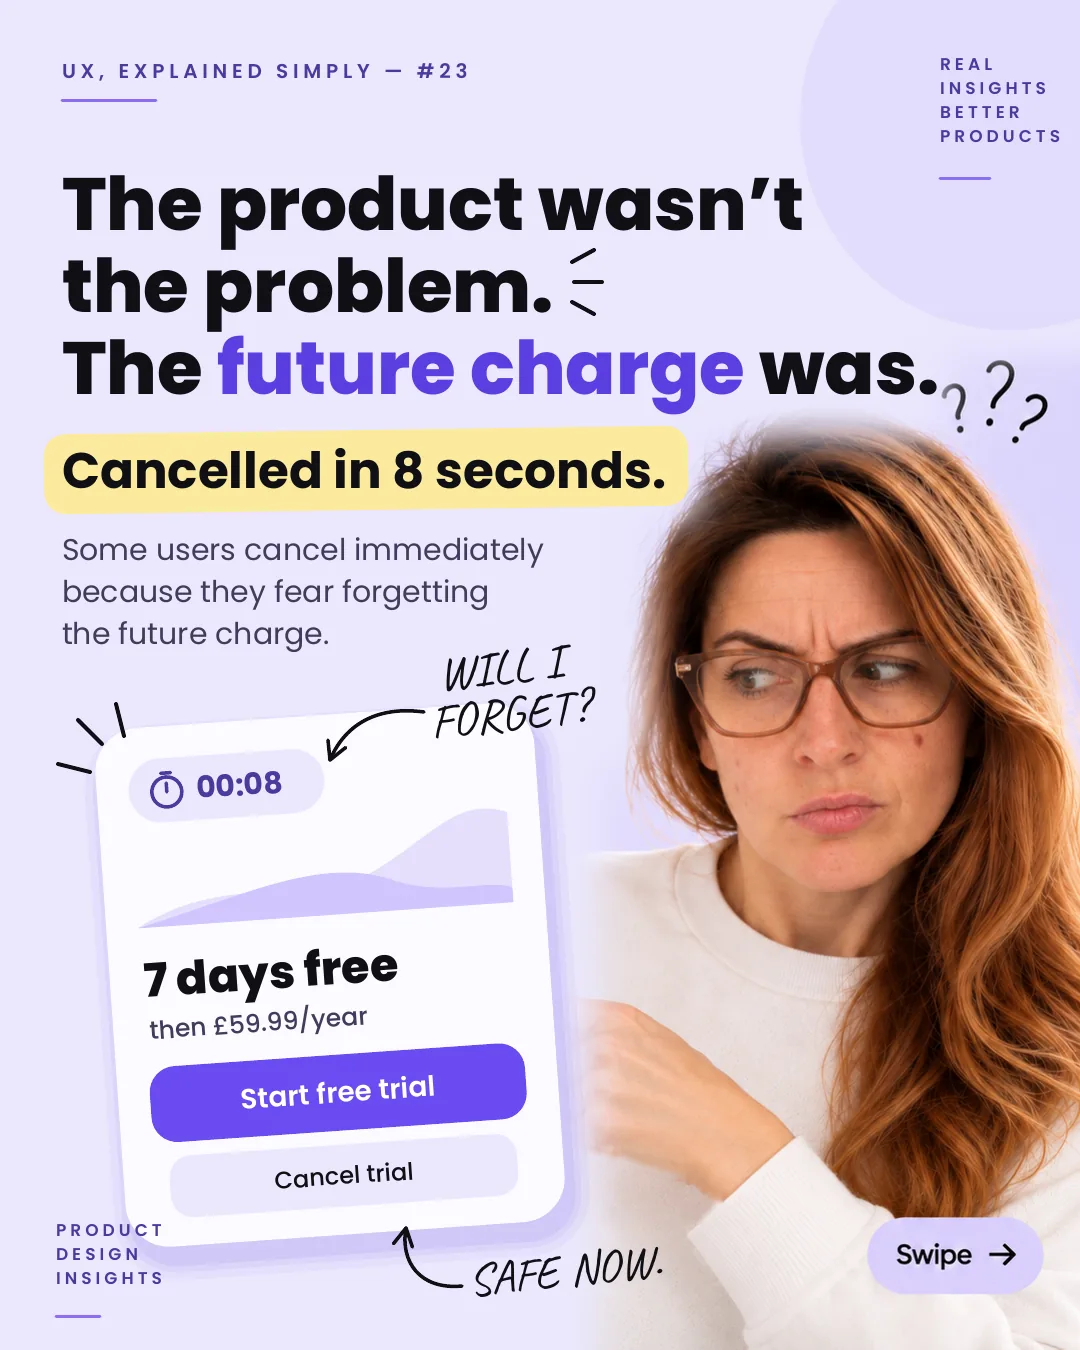
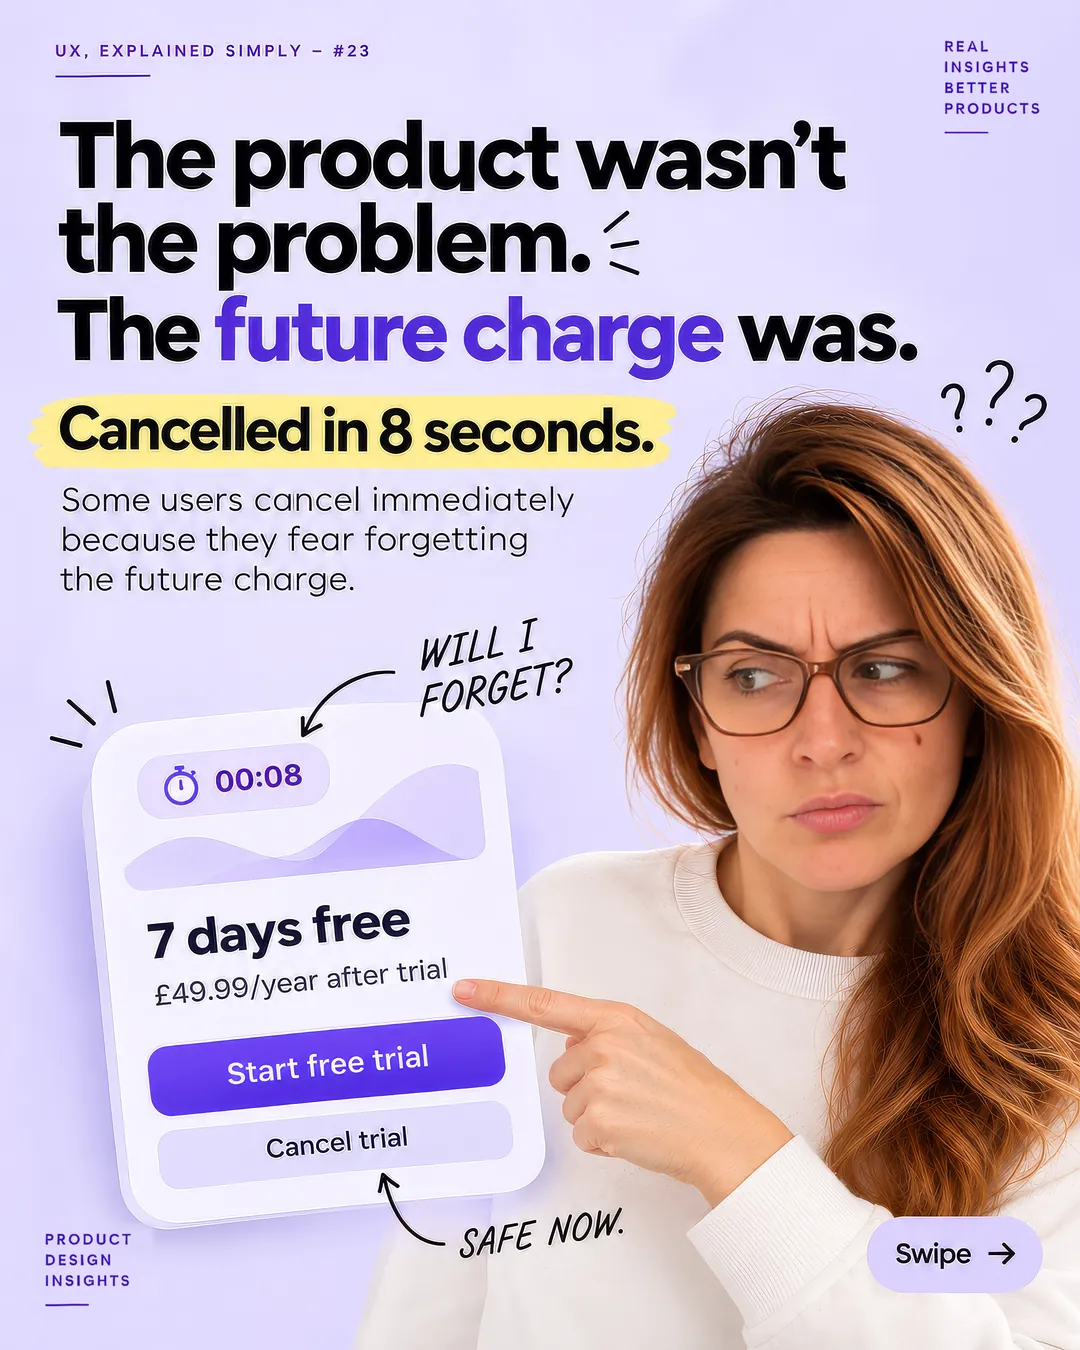
Replace UX, Explained Simply #23 cover with cleaned-up photo version (#89)
New cover image for carousel #23 (free-trial anxiety), with background
artefacts behind the top-right and bottom-left labels removed. Cache
version bumped to v=2 on the home and Insights pages.

Claude-Session: https://claude.ai/code/session_01LAuEtkcHrHKxvmiRiwuo6L

diff --git a/docs/insights.html b/docs/insights.html
@@ -36,7 +36,7 @@
 <div class="filter-row" aria-label="Topic filters"><a href="#subscriptions">Subscriptions</a><a href="#redesign">Redesign</a><a href="#onboarding">Onboarding</a><a href="#dashboards">Dashboards</a><a href="#data-tables">Data Tables</a><a href="#ux-research">UX Research</a><a href="#accessibility">Accessibility</a><a href="#product-decisions">Product Decisions</a><a href="#ux-patterns">UX Patterns</a><a href="#color-accessibility">Colour Accessibility</a></div>
 </div>
 <div class="insight-grid">
-<article class="ux-card ux-card-with-image insight-carousel-card" id="subscriptions"><button class="carousel-preview" type="button" data-insight-carousel data-carousel-title="The product wasn’t the problem. The future charge was." data-carousel-link="https://lnkd.in/p/dmYriNXj" data-carousel-slides="images/insights/UX23-4x5-1.webp?v=1,images/insights/UX23-4x5-2.webp?v=1,images/insights/UX23-4x5-3.webp?v=1,images/insights/UX23-4x5-4.webp?v=1,images/insights/UX23-4x5-5.webp?v=1,images/insights/UX23-4x5-6.webp?v=1,images/insights/UX23-4x5-7.webp?v=1" aria-label="Open The product wasn’t the problem. The future charge was. carousel"><img class="article-cover carousel-cover" src="images/insights/UX23-4x5-1.webp?v=1" width="1080" height="1350" alt="First slide of The product wasn’t the problem. The future charge was. carousel" decoding="async" loading="lazy"><span>Open carousel ↗</span></button><div class="card-meta"><span>Subscriptions</span><span>Carousel</span></div><h3>The product wasn’t the problem. The future charge was.</h3><p>UX, Explained Simply #23 — free-trial anxiety: why some users cancel a trial in seconds, what Google Play and Apple require on trial terms and pricing, how UK DMCC rules (from 1 January 2027) add reminders and easy online exit, and why a “Remind me” toggle is a nice extra, not compliance.</p></article>
+<article class="ux-card ux-card-with-image insight-carousel-card" id="subscriptions"><button class="carousel-preview" type="button" data-insight-carousel data-carousel-title="The product wasn’t the problem. The future charge was." data-carousel-link="https://lnkd.in/p/dmYriNXj" data-carousel-slides="images/insights/UX23-4x5-1.webp?v=2,images/insights/UX23-4x5-2.webp?v=1,images/insights/UX23-4x5-3.webp?v=1,images/insights/UX23-4x5-4.webp?v=1,images/insights/UX23-4x5-5.webp?v=1,images/insights/UX23-4x5-6.webp?v=1,images/insights/UX23-4x5-7.webp?v=1" aria-label="Open The product wasn’t the problem. The future charge was. carousel"><img class="article-cover carousel-cover" src="images/insights/UX23-4x5-1.webp?v=2" width="1080" height="1350" alt="First slide of The product wasn’t the problem. The future charge was. carousel" decoding="async" loading="lazy"><span>Open carousel ↗</span></button><div class="card-meta"><span>Subscriptions</span><span>Carousel</span></div><h3>The product wasn’t the problem. The future charge was.</h3><p>UX, Explained Simply #23 — free-trial anxiety: why some users cancel a trial in seconds, what Google Play and Apple require on trial terms and pricing, how UK DMCC rules (from 1 January 2027) add reminders and easy online exit, and why a “Remind me” toggle is a nice extra, not compliance.</p></article>
 <article class="ux-card ux-card-with-image insight-carousel-card" id="redesign"><button class="carousel-preview" type="button" data-insight-carousel data-carousel-title="Your redesign looks amazing. Your users hate it." data-carousel-link="https://lnkd.in/p/dyuZiihq" data-carousel-slides="images/insights/UX22-4x5-1.webp?v=1,images/insights/UX22-4x5-2.webp?v=1,images/insights/UX22-4x5-3.webp?v=1,images/insights/UX22-4x5-4.webp?v=1,images/insights/UX22-4x5-5.webp?v=1,images/insights/UX22-4x5-6.webp?v=1,images/insights/UX22-4x5-7.webp?v=1,images/insights/UX22-4x5-8.webp?v=1,images/insights/UX22-4x5-9.webp?v=1,images/insights/UX22-4x5-10.webp?v=1" aria-label="Open Your redesign looks amazing. Your users hate it. carousel"><img class="article-cover carousel-cover" src="images/insights/UX22-4x5-1.webp?v=1" width="1080" height="1350" alt="First slide of Your redesign looks amazing. Your users hate it. carousel" decoding="async" loading="lazy"><span>Open carousel ↗</span></button><div class="card-meta"><span>Redesign</span><span>Carousel</span></div><h3>Your redesign looks amazing. Your users hate it.</h3><p>UX, Explained Simply #22 — change aversion versus a real UX regression: Monzo’s day-2 spike and day-14 recovery, Intercom’s path-dependent reactions, what Snapchat’s −2% DAU and Sonos’s $20–30M fix cost, which changes are risky, and what to measure after launch.</p></article>
 <article class="ux-card ux-card-with-image insight-carousel-card" id="onboarding"><button class="carousel-preview" type="button" data-insight-carousel data-carousel-title="Your users finished the tutorial. Did they learn anything?" data-carousel-link="https://lnkd.in/p/dB7kWSZ6" data-carousel-slides="images/insights/UX21-4x5-1.webp?v=1,images/insights/UX21-4x5-2.webp?v=1,images/insights/UX21-4x5-3.webp?v=1,images/insights/UX21-4x5-4.webp?v=1,images/insights/UX21-4x5-5.webp?v=1,images/insights/UX21-4x5-6.webp?v=1,images/insights/UX21-4x5-7.webp?v=1,images/insights/UX21-4x5-8.webp?v=1" aria-label="Open Your users finished the tutorial. Did they learn anything? carousel"><img class="article-cover carousel-cover" src="images/insights/UX21-4x5-1.webp?v=1" width="1080" height="1350" alt="First slide of Your users finished the tutorial. Did they learn anything? carousel" decoding="async" loading="lazy"><span>Open carousel ↗</span></button><div class="card-meta"><span>Onboarding</span><span>Carousel</span></div><h3>Your users finished the tutorial. Did they learn anything?</h3><p>UX, Explained Simply #21 — four ways to introduce an app (slide carousel, video tour, contextual tips, guided first task), what the research supports, pros and cons of each, and how to measure learning instead of tour completion.</p></article>
 <article class="ux-card ux-card-with-image insight-carousel-card"><button class="carousel-preview" type="button" data-insight-carousel data-carousel-title="Same data. Same features?" data-carousel-link="https://www.linkedin.com/feed/update/urn:li:activity:7520822708067303425/" data-carousel-slides="images/insights/UX20-4x5-1.webp?v=2,images/insights/UX20-4x5-2.webp?v=2,images/insights/UX20-4x5-3.webp?v=2,images/insights/UX20-4x5-4.webp?v=2,images/insights/UX20-4x5-5.webp?v=2,images/insights/UX20-4x5-6.webp?v=2" aria-label="Open Same data. Same features? carousel"><img class="article-cover carousel-cover" src="images/insights/UX20-4x5-1.webp?v=2" width="1080" height="1350" alt="First slide of Same data. Same features? carousel" decoding="async" loading="lazy"><span>Open carousel ↗</span></button><div class="card-meta"><span>Data Tables</span><span>Carousel</span></div><h3>Same data. Same features?</h3><p>UX, Explained Simply #20 — Part 3 of 3 closes the data-tables series: parity decided per feature rather than per screen, what always carries over, what needs a new mechanism, the three questions before anything gets cut, and why WCAG 1.4.10 excepts the table but not the toolbar around it.</p></article>

diff --git a/docs/index.html b/docs/index.html
@@ -117,7 +117,7 @@
 <section class="section ux">
 <div class="section-head"><div><p class="eyebrow">04 / UX, EXPLAINED SIMPLY</p><h2>Professional insights, curated.</h2><p>Short practical notes and carousel posts about accessibility, product decisions, analytics, and research.</p></div><a class="text-link" href="insights.html">View all insights ↗</a></div>
 <div class="insight-grid">
-<article class="ux-card ux-card-with-image insight-carousel-card"><button class="carousel-preview" type="button" data-insight-carousel data-carousel-title="The product wasn’t the problem. The future charge was." data-carousel-link="https://lnkd.in/p/dmYriNXj" data-carousel-slides="images/insights/UX23-4x5-1.webp?v=1,images/insights/UX23-4x5-2.webp?v=1,images/insights/UX23-4x5-3.webp?v=1,images/insights/UX23-4x5-4.webp?v=1,images/insights/UX23-4x5-5.webp?v=1,images/insights/UX23-4x5-6.webp?v=1,images/insights/UX23-4x5-7.webp?v=1" aria-label="Open The product wasn’t the problem. The future charge was. carousel"><img class="article-cover carousel-cover" src="images/insights/UX23-4x5-1.webp?v=1" width="1080" height="1350" alt="First slide of The product wasn’t the problem. The future charge was. carousel" decoding="async" loading="lazy"><span>Open carousel ↗</span></button><div class="card-meta"><span>Subscriptions</span><span>Carousel</span></div><h3>The product wasn’t the problem. The future charge was.</h3><p>UX, Explained Simply #23 — free-trial anxiety: why some users cancel a trial in seconds, what Google Play and Apple require on trial terms and pricing, how UK DMCC rules (from 1 January 2027) add reminders and easy online exit, and why a “Remind me” toggle is a nice extra, not compliance.</p></article>
+<article class="ux-card ux-card-with-image insight-carousel-card"><button class="carousel-preview" type="button" data-insight-carousel data-carousel-title="The product wasn’t the problem. The future charge was." data-carousel-link="https://lnkd.in/p/dmYriNXj" data-carousel-slides="images/insights/UX23-4x5-1.webp?v=2,images/insights/UX23-4x5-2.webp?v=1,images/insights/UX23-4x5-3.webp?v=1,images/insights/UX23-4x5-4.webp?v=1,images/insights/UX23-4x5-5.webp?v=1,images/insights/UX23-4x5-6.webp?v=1,images/insights/UX23-4x5-7.webp?v=1" aria-label="Open The product wasn’t the problem. The future charge was. carousel"><img class="article-cover carousel-cover" src="images/insights/UX23-4x5-1.webp?v=2" width="1080" height="1350" alt="First slide of The product wasn’t the problem. The future charge was. carousel" decoding="async" loading="lazy"><span>Open carousel ↗</span></button><div class="card-meta"><span>Subscriptions</span><span>Carousel</span></div><h3>The product wasn’t the problem. The future charge was.</h3><p>UX, Explained Simply #23 — free-trial anxiety: why some users cancel a trial in seconds, what Google Play and Apple require on trial terms and pricing, how UK DMCC rules (from 1 January 2027) add reminders and easy online exit, and why a “Remind me” toggle is a nice extra, not compliance.</p></article>
 <article class="ux-card ux-card-with-image insight-carousel-card"><button class="carousel-preview" type="button" data-insight-carousel data-carousel-title="Your redesign looks amazing. Your users hate it." data-carousel-link="https://lnkd.in/p/dyuZiihq" data-carousel-slides="images/insights/UX22-4x5-1.webp?v=1,images/insights/UX22-4x5-2.webp?v=1,images/insights/UX22-4x5-3.webp?v=1,images/insights/UX22-4x5-4.webp?v=1,images/insights/UX22-4x5-5.webp?v=1,images/insights/UX22-4x5-6.webp?v=1,images/insights/UX22-4x5-7.webp?v=1,images/insights/UX22-4x5-8.webp?v=1,images/insights/UX22-4x5-9.webp?v=1,images/insights/UX22-4x5-10.webp?v=1" aria-label="Open Your redesign looks amazing. Your users hate it. carousel"><img class="article-cover carousel-cover" src="images/insights/UX22-4x5-1.webp?v=1" width="1080" height="1350" alt="First slide of Your redesign looks amazing. Your users hate it. carousel" decoding="async" loading="lazy"><span>Open carousel ↗</span></button><div class="card-meta"><span>Redesign</span><span>Carousel</span></div><h3>Your redesign looks amazing. Your users hate it.</h3><p>UX, Explained Simply #22 — change aversion versus a real UX regression: Monzo’s day-2 spike and day-14 recovery, Intercom’s path-dependent reactions, what Snapchat’s −2% DAU and Sonos’s $20–30M fix cost, which changes are risky, and what to measure after launch.</p></article>
 <article class="ux-card ux-card-with-image insight-carousel-card"><button class="carousel-preview" type="button" data-insight-carousel data-carousel-title="Your users finished the tutorial. Did they learn anything?" data-carousel-link="https://lnkd.in/p/dB7kWSZ6" data-carousel-slides="images/insights/UX21-4x5-1.webp?v=1,images/insights/UX21-4x5-2.webp?v=1,images/insights/UX21-4x5-3.webp?v=1,images/insights/UX21-4x5-4.webp?v=1,images/insights/UX21-4x5-5.webp?v=1,images/insights/UX21-4x5-6.webp?v=1,images/insights/UX21-4x5-7.webp?v=1,images/insights/UX21-4x5-8.webp?v=1" aria-label="Open Your users finished the tutorial. Did they learn anything? carousel"><img class="article-cover carousel-cover" src="images/insights/UX21-4x5-1.webp?v=1" width="1080" height="1350" alt="First slide of Your users finished the tutorial. Did they learn anything? carousel" decoding="async" loading="lazy"><span>Open carousel ↗</span></button><div class="card-meta"><span>Onboarding</span><span>Carousel</span></div><h3>Your users finished the tutorial. Did they learn anything?</h3><p>UX, Explained Simply #21 — four ways to introduce an app (slide carousel, video tour, contextual tips, guided first task), what the research supports, pros and cons of each, and how to measure learning instead of tour completion.</p></article>
 </div>
